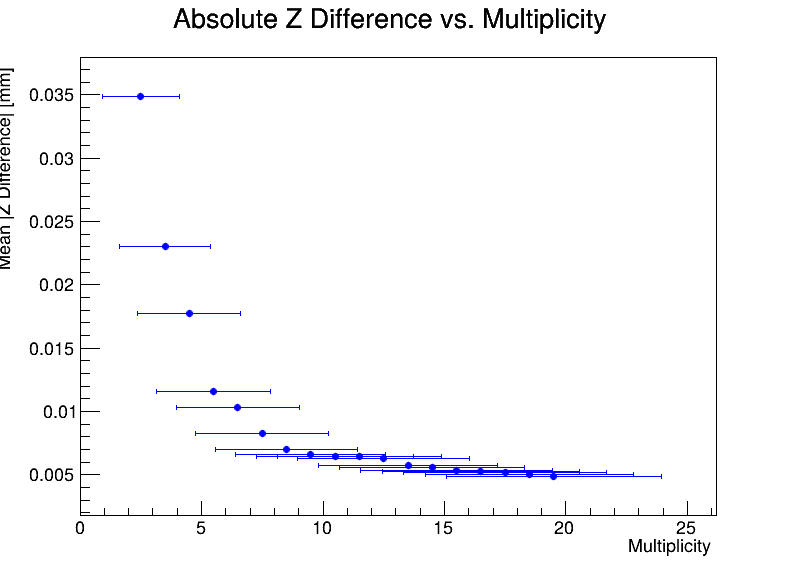
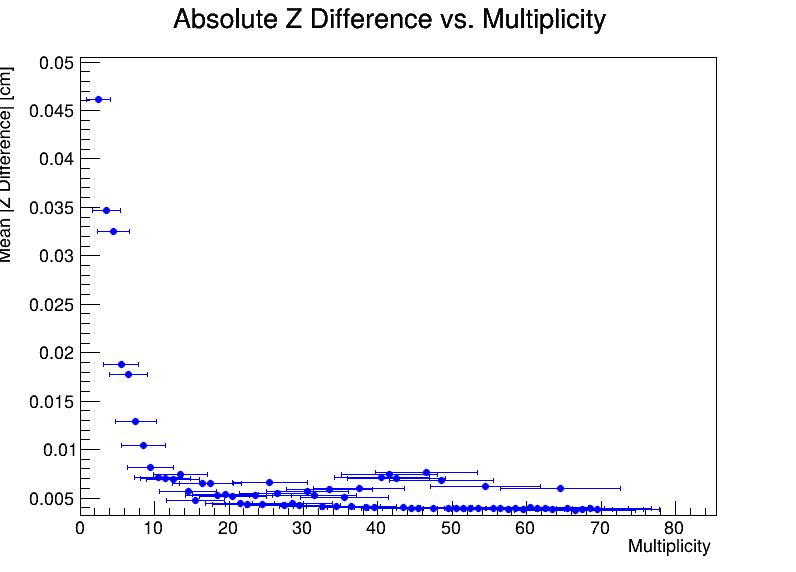
improved plots

diff --git a/project/macros/analysis.C b/project/macros/analysis.C
@@ -14,6 +14,8 @@
 #include <TGraphAsymmErrors.h>
 #include <TLegend.h>
 #include "../headers/Point.h"
+#include <TProfile.h>
+
 
 void calculateErrors(int rec, int gen, double& efficiency, double& errorLow, double& errorHigh) {
     if (gen == 0) {
@@ -71,25 +73,39 @@ void analysis(unsigned int events = 1000000) {
     inputTree->SetBranchAddress("genMultiplicity", &genMult);
     
     
-    const int nResBins = 100;
-    const double ResMin = -0.5;  // Adjust range based on your data
-    const double ResMax =0.5;
+    const int nResBins = 300;
+    const double ResMin = -0.05;  // Adjust range based on your data
+    const double ResMax = 0.05;
     
-    const int nMultBins = 20;
-    const double MultMin = 0;  // Adjust range based on your data
-    const double MultMax = 75;
+    const int nMultBins = 70;
+    const double MultMin = 1;  // Adjust range based on your data
+    const double MultMax = 70;
     
     // Create histogram for zGen efficiency
     const int nZBins = 50;
     const double zMin = -20;  // Adjust range based on your data
     const double zMax = 20;
 
+
+    const int nZProfileBins = 10;
+    const double zProfileMin = -13.5;  
+    const double zProfileMax = 13.5;
+
+    TProfile* profileZDiffGen = new TProfile("profileZDiffGen", 
+        "Z Difference vs. Generated Z Position;Z_{gen} [cm];Z_{reco} - Z_{gen} [cm]", 
+        nZProfileBins, zProfileMin, zProfileMax, "e");
+
+    profileZDiffGen->SetMarkerStyle(20);
+    profileZDiffGen->SetMarkerSize(0.8);
+    profileZDiffGen->SetMarkerColor(kBlue);
+    profileZDiffGen->SetLineColor(kBlue);    
+
     // Create histograms for residuals and multiplicities
-    TH1D* histRes = new TH1D("Residuals", "Z Residuals;|Z Difference (reco - gen)| [mm];Entries", nResBins, ResMin, ResMax);
+    TH1D* histRes = new TH1D("Residuals", "Z Residuals;Z Difference (reco - gen) [cm];Entries", nResBins, ResMin, ResMax);
     TH1D* histMultTotal = new TH1D("MultTotal", "Multiplicity Distribution;Multiplicity;Entries", nMultBins, MultMin, MultMax);
     TH1D* histMultValid = new TH1D("MultValid", "Valid Events Multiplicity;Multiplicity;Entries", nMultBins, MultMin, MultMax);  
-    TH1D* histZTotal = new TH1D("ZTotal", "Total Events vs Z;Z_{gen} [mm];Entries", nZBins, zMin, zMax);
-    TH1D* histZValid = new TH1D("ZValid", "Valid Events vs Z;Z_{gen} [mm];Entries", nZBins, zMin, zMax);
+    TH1D* histZTotal = new TH1D("ZTotal", "Total Events vs Z;Z_{gen} [cm];Entries", nZBins, zMin, zMax);
+    TH1D* histZValid = new TH1D("ZValid", "Valid Events vs Z;Z_{gen} [cm];Entries", nZBins, zMin, zMax);
     
     histZTotal->Sumw2();
     histZValid->Sumw2();
@@ -126,8 +142,8 @@ void analysis(unsigned int events = 1000000) {
     
     
     // Create vectors for zDiff vs zGen graph
-    vector<double> zgen_positions;
-    vector<double> zdiff_values;
+    //vector<double> zgen_positions;
+    //vector<double> zdiff_values;
     vector<double> zdiff_errors;
     vector<double> zero_xerrors;
     
@@ -160,7 +176,7 @@ void analysis(unsigned int events = 1000000) {
             double zDiff = zReco - zGen;
 
             histRes->Fill(zDiff);
-
+            profileZDiffGen->Fill(zGen, abs(zDiff));
             
             // Accumulate absolute z-differences for each multiplicity bin
             if(genMult < nMultBins) {
@@ -169,8 +185,8 @@ void analysis(unsigned int events = 1000000) {
             }
             
             // Add values for zDiff vs zGen graph
-            zgen_positions.push_back(zGen);
-            zdiff_values.push_back(zDiff);
+            //zgen_positions.push_back(zGen);
+            //zdiff_values.push_back(zDiff);
 //            zdiff_values.push_back(zDiff/zGen);
             zdiff_errors.push_back(histRes->GetRMS());  // Using the same error as other graphs
             zero_xerrors.push_back(0);  // No error on x-axis
@@ -210,12 +226,11 @@ void analysis(unsigned int events = 1000000) {
         z_errors.data()
     );
     
-    graphEffZ->SetTitle("Efficiency vs. Z Position;Z_{gen} [mm];Efficiency");
+    graphEffZ->SetTitle("Efficiency vs. Z Position;Z_{gen} [cm];Efficiency");
     graphEffZ->SetMarkerStyle(20);
-    graphEffZ->SetMarkerSize(0.8);
+    graphEffZ->SetMarkerSize(0.4);
     graphEffZ->SetMarkerColor(kBlue);
     graphEffZ->SetLineColor(kBlue);
-
     
 
     for(int i = 0; i < nMultBins; ++i) {
@@ -236,7 +251,7 @@ void analysis(unsigned int events = 1000000) {
         valid_zdiff_errors.data()
     );
     
-    graphZDiff->SetTitle("Absolute Z Difference vs. Multiplicity;Multiplicity;Mean |Z Difference| [mm]");
+    graphZDiff->SetTitle("Absolute Z Difference vs. Multiplicity;Multiplicity;Mean |Z Difference| [cm]");
     graphZDiff->SetMarkerStyle(20);
     graphZDiff->SetMarkerSize(0.8);
     graphZDiff->SetMarkerColor(kBlue);
@@ -278,19 +293,19 @@ void analysis(unsigned int events = 1000000) {
     graphEff->SetMarkerSize(0.5);
     graphEff->SetMarkerColor(kBlue);
     
-    
-    // Create TGraphErrors for zDiff vs zGen
+/*    
+     Create TGraphErrors for zDiff vs zGen
     TGraphErrors* graphZDiffGen = new TGraphErrors(
        zgen_positions.size(),
        zgen_positions.data(),
        zdiff_values.data(),
        zero_xerrors.data(),
        zdiff_errors.data()       
-//       zgen_positions.size(),
-//       zdiff_values.data(),
-//       zgen_positions.data(),
-//       zdiff_errors.data(),
-//       zero_xerrors.data()
+       zgen_positions.size(),
+       zdiff_values.data(),
+       zgen_positions.data(),
+       zdiff_errors.data(),
+       zero_xerrors.data()
 
      );
 
@@ -300,17 +315,24 @@ void analysis(unsigned int events = 1000000) {
     graphZDiffGen->SetMarkerSize(0.8);
     graphZDiffGen->SetMarkerColor(kBlue);
     graphZDiffGen->SetLineColor(kBlue);
+*/
 
      // Draw zDiff vs zGen plot
-    TCanvas* canvasZDiffGen = new TCanvas("canvasZDiffGen", "Z Difference vs Generated Z", 800, 600);
-    graphZDiffGen->Draw("AP");
+    TCanvas* canvasZDiffGen = new TCanvas("canvasZDiffGen", "Z Difference vs Generated Z", 900, 600);
+    //graphZDiffGen->Draw("AP");
+    //profileZDiffGen->GetXaxis()->SetRangeUser(-15, 15);
+    profileZDiffGen->GetYaxis()->SetRangeUser(0, 0.04);
+    profileZDiffGen->SetStats(0);
+    //profileZDiffGen->GetYaxis()->SetTitleOffset(1.01);
+    profileZDiffGen->Draw();
     canvasZDiffGen->SaveAs("../plots/ZDiff_vs_ZGen.png");
 
     // Don't forget to write to output file
-    graphZDiffGen->Write();
+    //graphZDiffGen->Write();
+    profileZDiffGen->Write();
 
     // Draw multiplicity distributions together
-    TCanvas* canvasMult = new TCanvas("canvasMult", "Multiplicity Distributions", 800, 600);
+    TCanvas* canvasMult = new TCanvas("canvasMult", "Multiplicity Distributions", 900, 600);
     
     // Create legend
     TLegend* legend = new TLegend(0.65, 0.75, 0.85, 0.85);
@@ -318,6 +340,7 @@ void analysis(unsigned int events = 1000000) {
     legend->AddEntry(histMultValid, "Valid Events", "l");
     
     // Draw histograms
+    //histMultTotal->GetYaxis()->SetTitleOffset(0.99);
     histMultTotal->Draw("HIST");
     histMultValid->Draw("HIST SAME");
     histMultTotal->SetStats(0);
@@ -327,25 +350,26 @@ void analysis(unsigned int events = 1000000) {
     canvasMult->SaveAs("../plots/MultiplicityDistributions.png");
 
     // Draw efficiency plot
-    TCanvas* canvasGraph = new TCanvas("canvasGraph", "Efficiency vs. Multiplicity", 800, 600);
+    TCanvas* canvasGraph = new TCanvas("canvasGraph", "Efficiency vs. Multiplicity", 900, 600);
     graphEff->Draw("AP");
-    graphEff->GetYaxis()->SetRangeUser(0.7, 1.1);
+    graphEff->GetYaxis()->SetRangeUser(0.85, 1.05);
     canvasGraph->SaveAs("../plots/Efficiency_vs_Multiplicity.png");
 
     // Draw residuals
-    TCanvas* canvasHist = new TCanvas("canvasHist", "Z Residuals", 800, 600);
+    TCanvas* canvasHist = new TCanvas("canvasHist", "Z Residuals", 900, 600);
     histRes->Draw("E1 P");
     canvasHist->SaveAs("../plots/ZResiduals.png");
 
     // Draw multiplicity vs z-difference plot
     TCanvas* canvasMultZDiff = new TCanvas("canvasMultZDiff", "Absolute Z Difference vs Multiplicity", 800, 600);
+    //graphZDiff->GetYaxis()->SetTitleOffset(0.99);
     graphZDiff->Draw("AP");
     canvasMultZDiff->SaveAs("../plots/ZDiff_vs_Multiplicity.png");
 
     // Draw efficiency vs zGen plot
-    TCanvas* canvasEffZ = new TCanvas("canvasEffZ", "Efficiency vs Z Position", 800, 600);
+    TCanvas* canvasEffZ = new TCanvas("canvasEffZ", "Efficiency vs Z Position", 900, 600);
     graphEffZ->Draw("AP");
-    graphEffZ->GetYaxis()->SetRangeUser(0.7, 1.1);  // Same range as efficiency vs multiplicity
+    graphEffZ->GetYaxis()->SetRangeUser(0.75, 1.05);  // Same range as efficiency vs multiplicity
     canvasEffZ->SaveAs("../plots/Efficiency_vs_Z.png");
 
     // Save everything to output file
